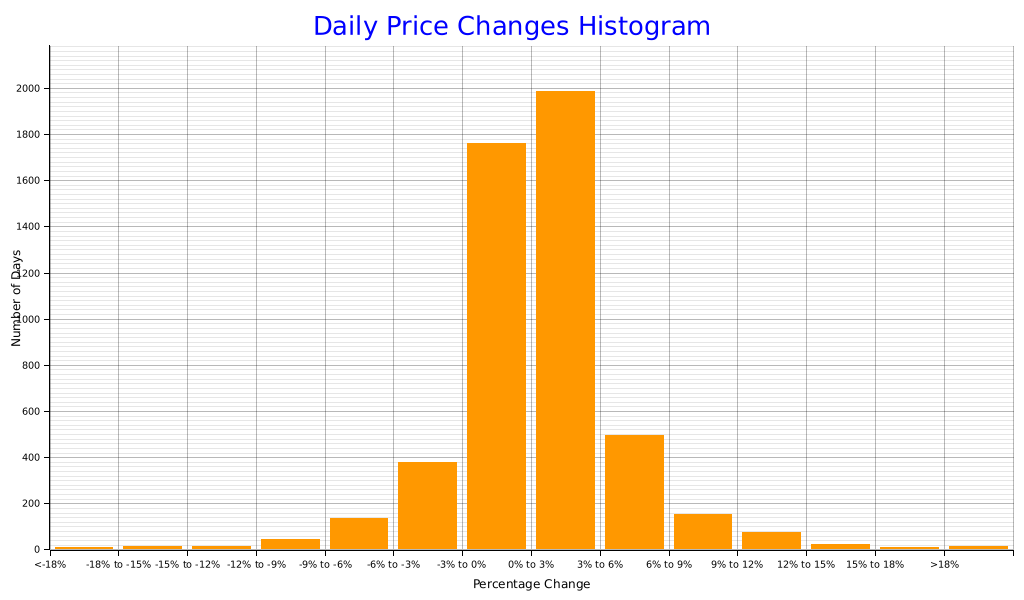
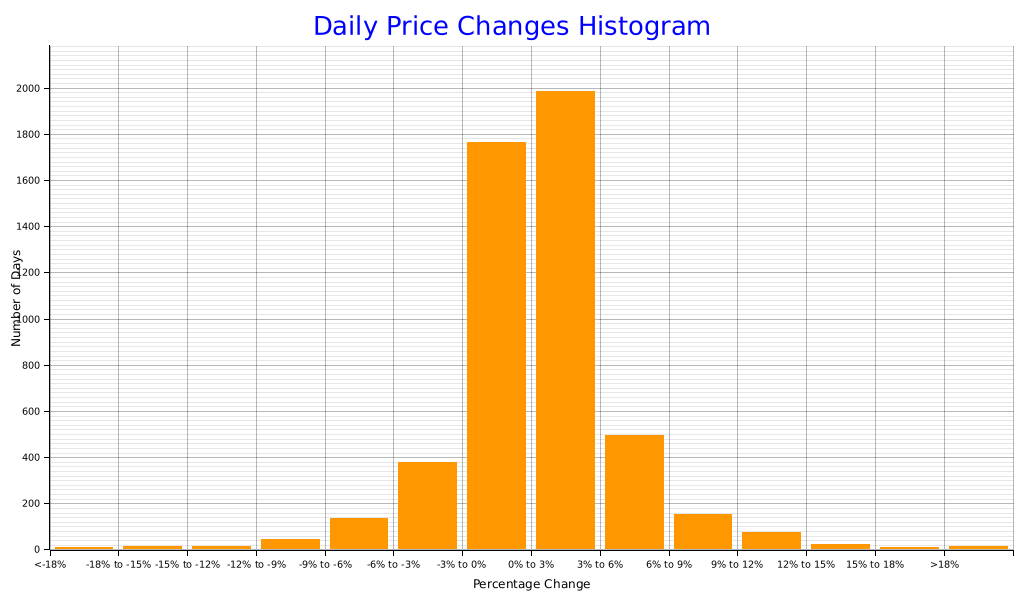
deploy: fbebbab4ab64577eb9c05b16167055638fc15f9a

diff --git a/index.html b/index.html
@@ -34,7 +34,7 @@
           <td>126,198.07</td>
           <td>74,436.67</td>
           <td></td>
-          <td>17,781,925,871,616.0</td>
+          <td>17,782,429,188,096.0</td>
         </tr>
         <tr>
           <td class='yearly-summary-year'>2024</td>
@@ -186,11 +186,11 @@
         </tr>
         <tr>
           <td>-3% to 0%</td>
-          <td>1762</td>
+          <td>1763</td>
         </tr>
         <tr>
           <td>0% to 3%</td>
-          <td>1985</td>
+          <td>1984</td>
         </tr>
         <tr>
           <td>3% to 6%</td>
@@ -227,7 +227,7 @@
     <br><br>
     <a href='https://github.com/bitcoin-tools/btracker'>Link to the report codebase</a>
     <br><br>
-    This report was last updated at 2025-11-28 16:51:06.421775302 UTC.
+    This report was last updated at 2025-11-28 17:19:55.733386854 UTC.
     <br><br>
     <div class='scrollable-table'>
       <table>
@@ -251,12 +251,12 @@
             <td>91,305.56</td>
             <td>92,945.34</td>
             <td>90,720.39</td>
-            <td>91,523.97</td>
-            <td class='wma-column'>55,693.30</td>
-            <td>38.39 (0.06 %)</td>
-            <td>53,739.64 (142.2 %)</td>
+            <td>90,759.73</td>
+            <td class='wma-column'>55,692.75</td>
+            <td>37.83 (0.06 %)</td>
+            <td>52,975.40 (140.2 %)</td>
             <td>2,224.95 (2.4 %)</td>
-            <td>238.60 (0.2 %)</td>
+            <td>-525.64 (0.5 %)</td>
           </tr>
           <tr>
             <td>2025-11-27</td>
